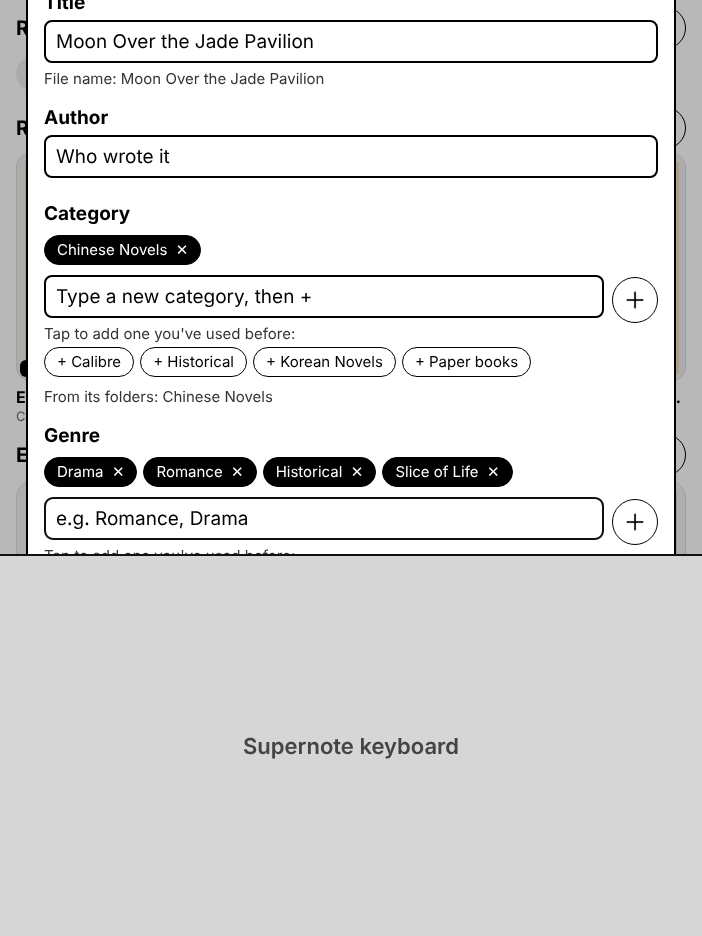
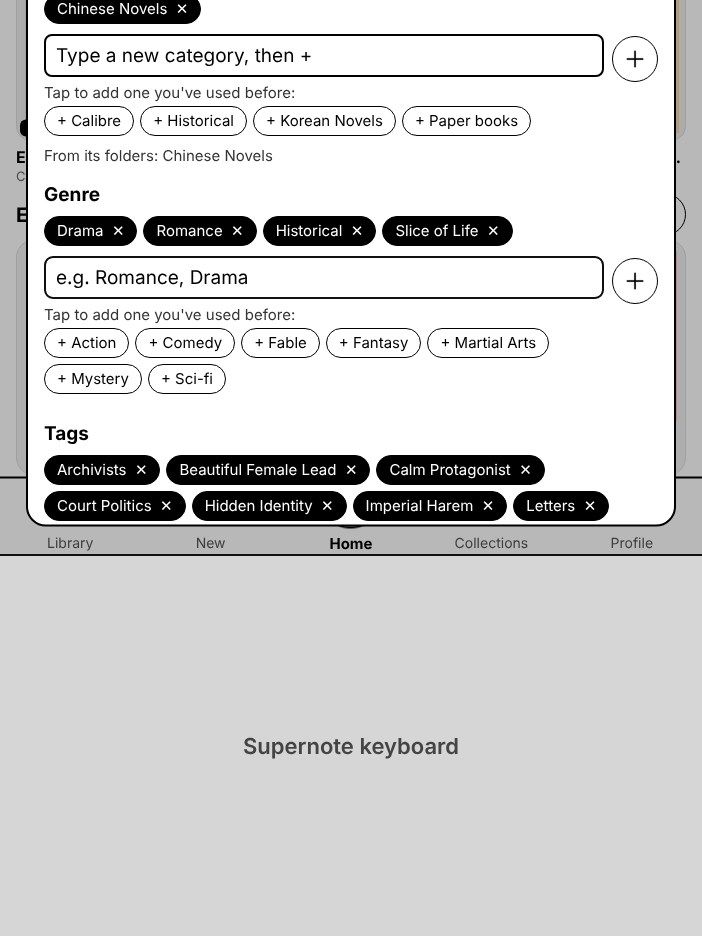
Keyboard: the box being typed in sits in the middle of the space above it
Claude-Session: https://claude.ai/code/session_01X56ddDHNWUKJn2BBuoFg9X

diff --git a/App.tsx b/App.tsx
@@ -172,7 +172,7 @@ function Text(props: React.ComponentProps<typeof RNText>) {
   );
 }
 // ---------- keyboard: the box being typed in always moves up above the keyboard ----------
-// The whole box goes above the keyboard, so every new line stays in view. A box taller than the space
+// The whole box goes to the middle of the space above the keyboard, so every new line stays in view. A box taller than the space
 // left is shortened to fit, and then it scrolls inside itself to keep the line being typed in view.
 type Typing = {el: RNTextInput | null; setCap: (h: number | undefined) => void};
 let typingIn: ((t: Typing | null) => void) | null = null;
@@ -197,7 +197,9 @@ function KeyboardLift({children}: {children: React.ReactNode}) {
       const tall = h > room;
       t.setCap(tall ? room : undefined);
       const boxH = tall ? room : h;
-      const up = Math.max(0, Math.min(top - px(12), top + boxH + px(16) - (H - kb.current)));
+      // the box sits in the middle of the space above the keyboard (never past the top of the screen)
+      const middle = (H - kb.current) / 2;
+      const up = Math.max(0, Math.min(top - px(12), top + boxH / 2 - middle));
       liftRef.current = up;
       setLift(up);
     });
